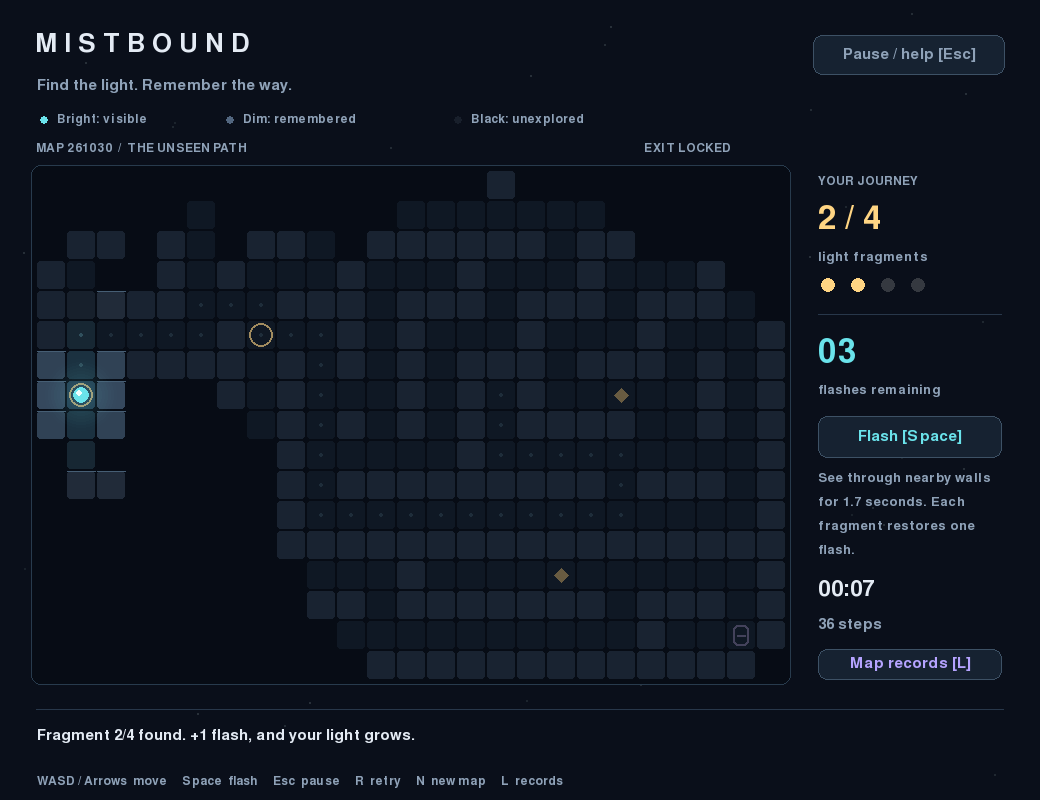
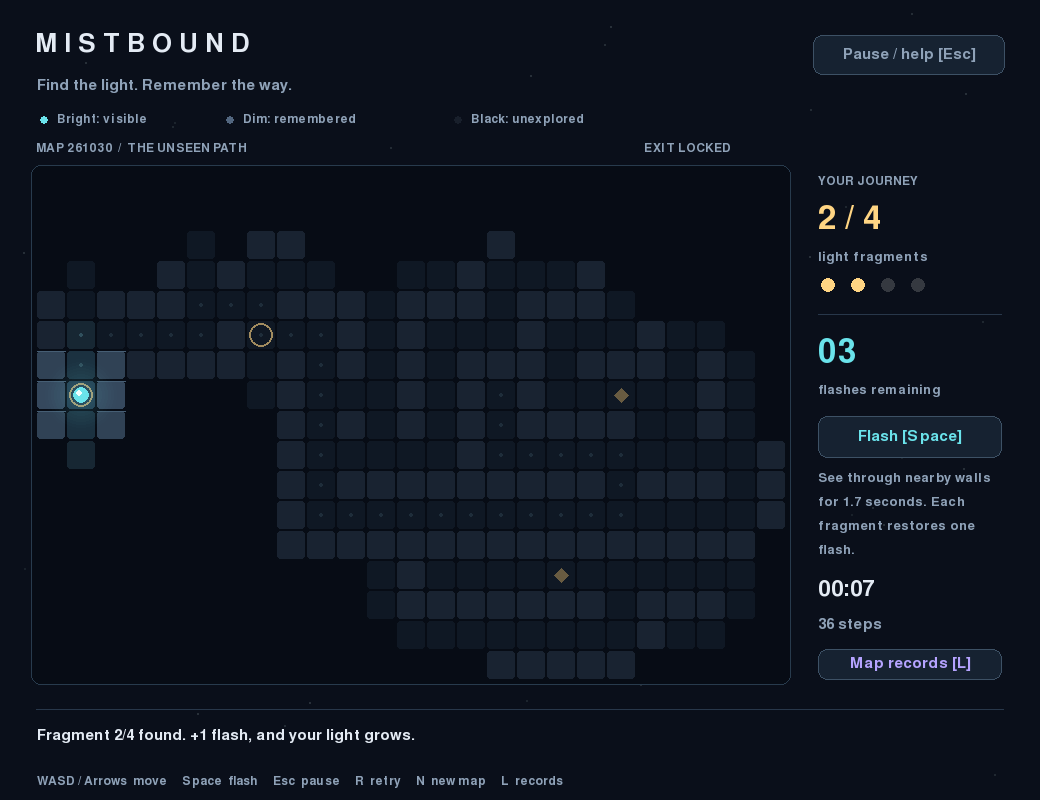
Balance sight halfway between the original and reduced ranges

diff --git a/test_game.py b/test_game.py
@@ -92,7 +92,7 @@ class GameTests(unittest.TestCase):
         self.assertEqual((g.charges, g.flashes_used), (0, 2))
         self.assertIn('still explore', g.message)
 
-    def test_original_visibility_wall_occlusion_flash_and_memory(self):
+    def test_midpoint_visibility_wall_occlusion_flash_and_memory(self):
         g = Game(SEED)
         g.grid = ('#########', '#.......#', '#.......#', '#...#...#', '#.......#', '#.......#', '#########')
         g.width, g.height = 9, 7
@@ -101,13 +101,15 @@ class GameTests(unittest.TestCase):
         g.reveal()
         target = (5, 3)
         self.assertNotIn(target, g.visible)
-        self.assertIn((3, 0), g.visible)
-        self.assertEqual(NORMAL_RADIUS, 3)
+        self.assertIn((1, 2), g.visible)
+        self.assertNotIn((3, 0), g.visible)
+        self.assertEqual(NORMAL_RADIUS, 2.5)
         self.assertTrue(all(math.dist(g.player, cell) <= NORMAL_RADIUS for cell in g.visible))
         g.flash()
         self.assertIn(target, g.visible)
         self.assertIn((8, 3), g.visible)
-        self.assertEqual(FLASH_RADIUS, 7)
+        self.assertNotIn((8, 5), g.visible)
+        self.assertEqual(FLASH_RADIUS, 5)
         self.assertTrue(all(math.dist(g.player, cell) <= FLASH_RADIUS for cell in g.visible))
         revealed = set(g.visible)
         g.update(FLASH_DURATION + 1)
@@ -123,12 +125,12 @@ class GameTests(unittest.TestCase):
         for step in steps:
             g.move(*step)
         self.assertEqual((g.collected, g.charges), (1, 2))
-        self.assertAlmostEqual(g.radius, 3.4)
+        self.assertAlmostEqual(g.radius, 2.7)
         dx, dy = steps[-1]
         g.move(-dx, -dy)
         g.move(dx, dy)
         self.assertEqual((g.collected, g.charges), (1, 2))
-        self.assertAlmostEqual(g.radius, 3.4)
+        self.assertAlmostEqual(g.radius, 2.7)
         self.assertIn('grows', g.message)
 
     def test_exit_explains_missing_fragments(self):
@@ -146,7 +148,7 @@ class GameTests(unittest.TestCase):
             collect_all(g)
             self.assertTrue(g.won)
             self.assertEqual(g.collected, 4)
-            self.assertAlmostEqual(g.radius, 4.6)
+            self.assertAlmostEqual(g.radius, 3.3)
             self.assertEqual(g.flashes_used, 0)
             snapshot = g.player, g.steps, g.elapsed, g.charges
             g.move(-1, 0)
@@ -163,7 +165,7 @@ class GameTests(unittest.TestCase):
         for field in ('seed', 'grid', 'player', 'seen', 'lights', 'charges', 'steps', 'elapsed', 'won'):
             self.assertEqual(getattr(g, field), getattr(fresh, field))
         old_key = g.map_key
-        self.assertEqual(old_key, f'v3-{SEED:06d}')
+        self.assertEqual(old_key, f'v4-{SEED:06d}')
         g.new_map()
         self.assertNotEqual(g.seed, SEED)
         self.assertNotEqual(g.map_key, old_key)

diff --git a/game.py b/game.py
@@ -4,8 +4,8 @@ import secrets
 from maze import MAX_SEED, MAP_VERSION, generate
 
 FLASH_DURATION = 1.7
-NORMAL_RADIUS = 3
-FLASH_RADIUS = 7
+NORMAL_RADIUS = 2.5
+FLASH_RADIUS = 5
 
 
 def line_cells(start, end):
@@ -65,7 +65,7 @@ class Game:
 
     @property
     def radius(self):
-        return NORMAL_RADIUS + self.collected * 0.4
+        return NORMAL_RADIUS + self.collected * 0.2
 
     def walkable(self, x, y):
         return 0 <= x < self.width and 0 <= y < self.height and self.grid[y][x] != "#"

diff --git a/maze.py b/maze.py
@@ -4,7 +4,7 @@ import random
 
 WIDTH, HEIGHT = 25, 17
 FRAGMENTS = 4
-MAP_VERSION = "v3"
+MAP_VERSION = "v4"
 MAX_SEED = 999_999
 
 

diff --git a/PROCESS.md b/PROCESS.md
@@ -28,6 +28,8 @@ On 31 October 2026, the student requested a larger illuminated area and a return
 
 The first trial meets the brief's condition of trying the experience before its controls were explained. The revised version has not yet been retested by a participant. Difficulty and whether the new record system motivates replay remain open questions. See `docs/USER_TRIAL.md`.
 
+Later on 31 October, the student said the original sight was still too large and requested a midpoint between the two versions. The current ordinary radius is 2.5 with 0.2 growth per fragment (maximum 3.3); the flash radius is 5. At every collection stage, these are the arithmetic midpoints between the original growing sight and the reduced version's fixed radius 2; flash radius 5 is midway between 7 and 3. The rules version is now v4, retaining earlier records in separate groups. This adjustment comes from the student's feedback, not a claimed participant retest.
+
 ## Implementation choices after the trial
 
 ### Randomness with constraints
@@ -52,15 +54,15 @@ OpenAI Codex assisted with assignment interpretation, ideas, Python implementati
 
 - Kept: remembered fog and limited flashes replenished by collection.
 - Changed: a fixed-map exploration demo became a constrained random-map game after participant feedback.
-- Iterated: the participant's request initially led to smaller sight without growth. After reviewing that direction, the student requested restoring the original larger sight and collection-based growth; Codex implemented that decision.
+- Iterated: the participant's request initially led to smaller sight without growth. The student then requested restoring the original sight, found that too large, and asked for a midpoint. Codex implemented the intermediate radius and growth values.
 - Scope decision: a global leaderboard was replaced by local same-map records so random-map scores are comparable without accounts or a server.
 
 ## Verification
 
-All 21 tests pass. They include 50 generated maps checked for connected floors and objective spacing, reproducibility and varied placements, no-flash completion on 10 maps, collision and feedback, restored radius-3/radius-7 visibility and one-time sight growth per fragment, reset and new-map confirmation, pause/focus/records behavior, and one-time completion saving. Record tests verify sorting, the five-entry cap, map/rules-version isolation, reloads, invalid data, corruption preservation and simulated write failures.
+All 21 tests pass. They include 50 generated maps checked for connected floors and objective spacing, reproducibility and varied placements, no-flash completion on 10 maps, collision and feedback, midpoint radius-2.5/radius-5 visibility and one-time growth of 0.2 per fragment, reset and new-map confirmation, pause/focus/records behavior, and one-time completion saving. Record tests verify sorting, the five-entry cap, map/rules-version isolation, reloads, invalid data, corruption preservation and simulated write failures.
 
 A separate stress check passed on 1,000 map numbers for connected floors, reachable objectives and minimum spacing from the start. The revised application opened and rendered with the native macOS Cocoa driver. Game-rendered frames of the title, normal sight, flash, pause, confirmation, completion and records screens were visually reviewed, including a full five-entry table. Preview records are isolated from the real local file. These developer checks do not imply a successful participant retest.
 
 ## Development history
 
-Commits preserve the original fixed-map version, the response to roommate feedback (random maps, smaller sight, four fragments and local records), and the student's later request to restore the original light ranges under rules version v3. Further changes after a real retest should be committed with their reasons.
+Commits preserve the original fixed-map version, the response to roommate feedback (random maps, smaller sight, four fragments and local records), the restoration under v3 rules, and the student's subsequent midpoint adjustment under v4 rules. Further changes after a real retest should be committed with their reasons.

diff --git a/README.md b/README.md
@@ -14,7 +14,7 @@ Every new map randomizes the maze, starting point, fragment locations and exit. 
 
 - **Move:** WASD or arrow keys. Holding a direction moves at a controlled rate; walls block movement.
 - **Flash:** Space or the Flash button. Start with **two charges**. A flash reveals nearby routes **through walls for 1.7 seconds**, and dim outlines remain afterward.
-- **Sight:** normal vision starts at a radius of **3 tiles** and stops at walls. Each fragment adds **0.4 tiles**, reaching radius **4.6** after all four. Flash vision has a radius of **7 tiles** (up to 15 across). Both areas are circular.
+- **Sight:** normal vision starts at a radius of **2.5 tiles** and stops at walls. Each fragment adds **0.2 tiles**, reaching radius **3.3** after all four. Flash vision has a radius of **5 tiles** (up to 11 across). Both areas are circular. These values are midway between the original and reduced-sight versions.
 - **Collect:** walk over a gold diamond. Each fragment restores one flash and slightly expands ordinary sight.
 - **Exit:** enter the portal after collecting all four fragments. Before that, it explains how many are missing.
 - **Pause/help:** Esc or the Pause button. Switching windows also pauses. Time and flash duration freeze while paused. Resume explicitly with Esc, Enter or Continue.
@@ -67,7 +67,7 @@ The dependency is **pygame-ce**, imported as `pygame`. Its exact version is reco
 uv run python -m unittest -v
 ```
 
-All **21 tests** pass. They cover random-map connectivity and objective spacing, replay reproducibility, restored sight ranges and growth, fog memory, collection, completion without flashes, pause and confirmation handling, ranking and map isolation, persistence, and missing/corrupt/unwritable score files. Automated checks are developer verification, not a participant trial.
+All **21 tests** pass. They cover random-map connectivity and objective spacing, replay reproducibility, midpoint sight ranges and growth, fog memory, collection, completion without flashes, pause and confirmation handling, ranking and map isolation, persistence, and missing/corrupt/unwritable score files. Automated checks are developer verification, not a participant trial.
 
 An additional stress check passed on 1,000 map numbers: all floor tiles were connected, objectives were reachable and minimum start spacing held. The environment is macOS, Python 3.14.7 and pygame-ce 2.5.8. The revised application also opened and rendered with the native Cocoa display driver. Windows and Linux have not been tested.
 
@@ -98,4 +98,4 @@ On a headless macOS/Linux machine, prefix this image command with `SDL_VIDEODRIV
 
 Closing loses an unfinished run. Only completed records persist. The UI is English, uses a fixed window size and has no sound. It has not been evaluated for screen-reader use. Local records do not sync across computers. Map numbers are reproducible within this rules version; generation or gameplay changes should increment the map version.
 
-The roommate tried the original game without a prior explanation. Their feedback informed random maps, an initial sight reduction, a fourth fragment and same-map records. The student later requested restoring the original, larger sight ranges; the current rules use version v3 so scores from the reduced-sight version stay separate. See PROCESS.md. The current version has not yet had a participant retest. The student must follow the run instructions and review the code. Public GitHub upload and a signed-out access check remain pending.
+The roommate tried the original game without a prior explanation. Their feedback informed random maps, an initial sight reduction, a fourth fragment and same-map records. After restoring the larger sight ranges, the student found them too large and requested a midpoint. The current rules use version v4, keeping earlier visibility versions' records separate. See PROCESS.md. The current version has not yet had a participant retest. The student must follow the run instructions and review the code. Public GitHub upload and a signed-out access check remain pending.

diff --git a/docs/USER_TRIAL.md b/docs/USER_TRIAL.md
@@ -22,10 +22,12 @@ The exact trial date, duration, first actions and completion outcome were not re
 
 On 31 October 2026, the student requested restoring the original larger sight: ordinary radius 3 plus 0.4 per collected fragment, and flash radius 7. This was a student preference, not another roommate trial. The fourth fragment and random-map/records features remain. Scores for these v3 rules are separated from the earlier v2 reduced-sight records.
 
-Automated checks cover random map constraints, restored vision and growth, no-flash completion, replay/new-map distinctions, ranking, persistence and unavailable record files. Rendered screens are reviewed. These are developer checks, not another participant trial.
+Later that day, the student reported that the original sight was still too large and requested an intermediate setting. The current v4 rules use normal radius 2.5, growth of 0.2 per fragment and flash radius 5. These are halfway between the original and reduced settings; old scores remain separated by rules version. This is student feedback, not another roommate trial.
+
+Automated checks cover random map constraints, midpoint vision and growth, no-flash completion, replay/new-map distinctions, ranking, persistence and unavailable record files. Rendered screens are reviewed. These are developer checks, not another participant trial.
 
 ## Optional next trial
 
-The current version has not yet been tried by this participant. Useful follow-up observations are whether the restored sight feels balanced on random maps, whether a flash is useful, and whether the player understands retrying the same map to improve a record. Record actual observations if a retest takes place.
+The current version has not yet been tried by this participant. Useful follow-up observations are whether the intermediate sight feels balanced on random maps, whether a flash is useful, and whether the player understands retrying the same map to improve a record. Record actual observations if a retest takes place.
 
 The original unassisted trial and the changes made in response are documented. A retest would help assess the revised difficulty and record system, but has not yet taken place.

diff --git a/docs/CODE_GUIDE.md b/docs/CODE_GUIDE.md
@@ -30,11 +30,11 @@ This connects input, meaningful state change and visible feedback. The repeated-
 
 ## Movement and collection
 
-`Game.move(dx, dy)` accepts a single horizontal or vertical step. It checks `walkable()` before moving. A wall leaves the position and step count unchanged. On a fragment tile, it removes that fragment, updates the count and grants a flash. Normal sight starts at radius 3 and grows by 0.4 per fragment, up to 4.6. The exit checks whether all four fragments were collected before setting `won`.
+`Game.move(dx, dy)` accepts a single horizontal or vertical step. It checks `walkable()` before moving. A wall leaves the position and step count unchanged. On a fragment tile, it removes that fragment, updates the count and grants a flash. Normal sight starts at radius 2.5 and grows by 0.2 per fragment, up to 3.3. The exit checks whether all four fragments were collected before setting `won`.
 
 ## How the fog works
 
-Ordinary vision checks distance and walls. `line_cells()` lists grid cells along a straight line using the Bresenham algorithm; a wall before the target blocks normal vision. Flash mode skips wall blocking and uses radius 7. A rounded-up bounding box allows the fractional ordinary radius to be checked against actual distances. Drawing then uses `visible` and `seen` to select bright, dim or black tiles.
+Ordinary vision checks distance and walls. `line_cells()` lists grid cells along a straight line using the Bresenham algorithm; a wall before the target blocks normal vision. Flash mode skips wall blocking and uses radius 5. A rounded-up bounding box allows the fractional ordinary radius to be checked against actual distances. Drawing then uses `visible` and `seen` to select bright, dim or black tiles.
 
 The smooth movement and glow effects are only drawings. They do not decide whether the player can walk through a wall or collect a fragment; those rules remain in `game.py`.
 

diff --git a/docs/SUBMISSION_CHECKLIST.md b/docs/SUBMISSION_CHECKLIST.md
@@ -2,7 +2,7 @@
 
 - [x] Working Python game, dependency metadata and exact uv commands.
 - [x] Original graphics drawn by the code; no external asset files required.
-- [x] Random reachable maps, four separated fragments and restored original sight ranges.
+- [x] Random reachable maps, four separated fragments and midpoint sight ranges.
 - [x] Same-map replay, new maps and persistent local top-five records.
 - [x] README with rendered frames and limitations.
 - [x] PROCESS with honest AI contribution and decisions.
